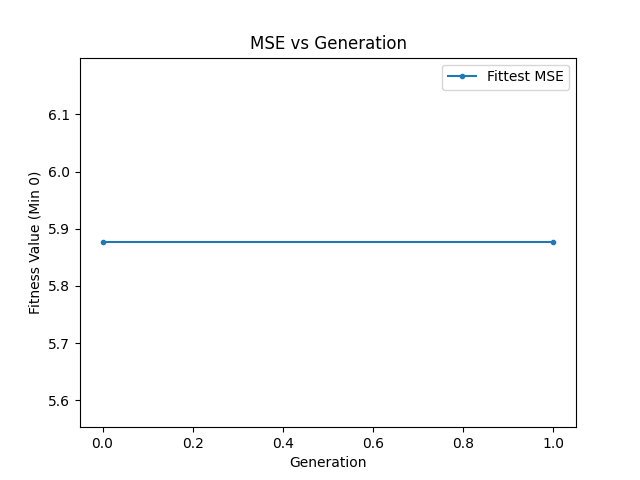
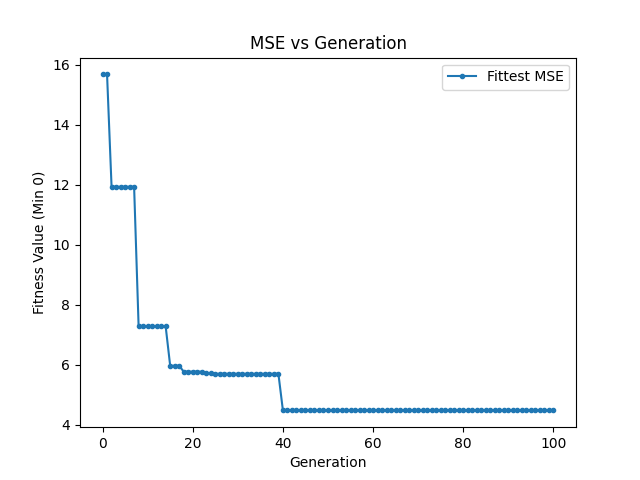
Test Run

diff --git a/implementation_test.py b/implementation_test.py
@@ -34,8 +34,8 @@ operator_probabilities = {
 }
 
 head_length = 13
-population_size = 60000
-generations = 1
+population_size = 250
+generations = 100
 fitness_func = 'mse'
 
 GEPProcess = GeneExpressionProgramming(head_length,func_set,term_set,const_range,operator_probabilities)
